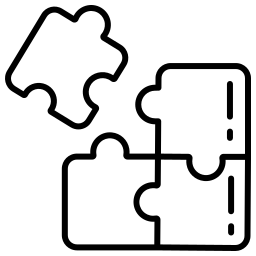
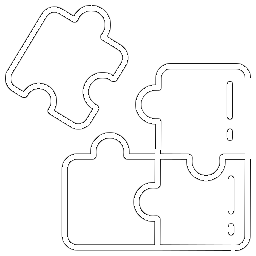
customize

diff --git a/assets/css/style.css b/assets/css/style.css
@@ -7,7 +7,8 @@ body {
     font-family: "Noto Sans JP", "Helvetica Neue", "Helvetica", "Hiragino Sans", "Hiragino Kaku Gothic ProN", "Arial", "Yu Gothic", "Meiryo", sans-serif;
     font-size: 15px;
     line-height: 1.5;
-    color: #333;
+    background-color: #111;
+    color: #fff;
     overflow-x: hidden;
 }
 
@@ -71,7 +72,9 @@ section
 }
 
 .section.section-secondary {
-    background-color: #efefef;
+    background-color: #333;
+    width: 80vw;
+    margin: 0 auto;
 }
 
 .section-headline {
@@ -81,17 +84,10 @@ section
     margin: 0 0 40px;
 }
 
-.section-button {
-    margin: 10px 0 40px;
-    text-align: center;
-}
-
 @media screen and (max-width:768px) {
     .section {
         padding: 20px 10px;
     }
-
-    .section.section-secondary {}
 
     .section-headline {
         font-size: 30px;
@@ -137,15 +133,17 @@ header
 .header-navitem>a {
     display: block;
     padding: 10px;
-    color: #333;
+    color: #fff;
     text-decoration: none;
     font-weight: bold;
-    border-bottom: 2px solid transparent;
+    margin-bottom: 2px;
+    border-bottom: 0px solid transparent;
     transition: border-color .25s;
 }
 
 .header-navitem>a:hover {
-    border-bottom: 2px solid #333;
+    margin-bottom: 0px;
+    border-bottom: 2px solid #fff;
 }
 
 @media screen and (max-width:768px) {
@@ -263,14 +261,14 @@ card
 
 .card-link {
     display: block;
-    color: #333;
+    color: #fff;
     text-decoration: none;
     position: relative;
     transition: background-color .25s;
 }
 
 .card-link:hover {
-    background-color: #eee;
+    background-color: #222;
 }
 
 .card-label {
@@ -326,25 +324,85 @@ avator
 /*
 button
 */
+.button-border {
+    position: relative;
+    display: flex;
+    align-items: center;
+    justify-content: center;
+    width: 200px;
+    height: 50px;
+    margin: 10px auto;
+    border-radius: 3px;
+    overflow: hidden;
+}
+
 .button {
+    position: relative;
+    z-index: 2;
+    width: 195px;
+    height: 45px;
     display: inline-block;
     color: #fff;
     font-weight: bold;
-    background-color: #333;
+    background-color: #222;
     text-align: center;
-    padding: 15px 60px;
+    padding: 15px 0;
     text-decoration: none;
-    border-radius: 5px;
-    box-shadow: 5px 5px 0 #bbb;
-    transition: box-shadow .25s;
+    border-radius: 3px;
 }
 
-.button:hover {
-    box-shadow: 0px 0px 0 #bbb;
+.button-border::before {
+    content: "";
+    display: block;
+    background: linear-gradient(90deg,
+            hsla(197, 100%, 64%, 1) 0%,
+            hsla(339, 100%, 55%, 1) 100%);
+    height: 500px;
+    width: 500px;
+    position: absolute;
+    animation: rotate 8s linear infinite;
+    z-index: 1;
+}
+.button-shadow{
+    position: relative;
+    width: min-content;
+    margin: 0 auto;
+}
+
+.button-shadow::after {
+    content: "";
+    display: block;
+    background: linear-gradient(90deg,
+            hsla(197, 100%, 64%, 1) 0%,
+            hsla(339, 100%, 55%, 1) 100%);
+    width: 200px;
+    height: 50px;
+    position: absolute;
+    top: -50%;
+    left: 50%;
+    transform: translate(-50%,40%);
+    z-index: 0;
+    filter: blur(15px);
+    opacity: 0;
+    transition: opacity 0.25s;
+}
+
+.button-shadow:hover::after {
+    opacity: 1;
+}
+
+@keyframes rotate {
+    from {
+        transform: rotate(0);
+    }
+
+    to {
+        transform: rotate(360deg);
+    }
 }
 
 .button.button-submission {
-    background: #92d3ca;
+    background: #444;
 }
 
 /*
@@ -402,9 +460,14 @@ form
     padding: 19px;
 }
 
-.form-button {
-    text-align: center;
-    margin: 20px;
+@keyframes rotate {
+    from {
+        transform: rotate(0);
+    }
+
+    to {
+        transform: rotate(360deg);
+    }
 }
 
 @media screen and (max-width:768px) {
@@ -435,14 +498,16 @@ works
     height: auto;
 }
 
-@keyframes infinite-carousel{
-    0%{
+@keyframes infinite-carousel {
+    0% {
         transform: translateX(0);
     }
-    50%{
+
+    50% {
         transform: translateX(-50%);
     }
-    100%{
+
+    100% {
         transform: translateX(-100%);
     }
 }

diff --git a/index.html b/index.html
@@ -5,7 +5,7 @@
     <meta charset="UTF-8">
     <meta http-equiv="X-UA-Compatible" content="IE=edge">
     <meta name="viewport" content="width=device-width, initial-scale=1.0">
-    <title>BugFix Web Page</title>
+    <title>BF Web Page</title>
     <meta name="description" content="sample text sample text sample text sample text sample text...">
 
     <link rel="preconnect" href="https://fonts.googleapis.com">
@@ -34,7 +34,7 @@
                 d="M45.588 79.501C12.8 61.179 6.692 4.763 67.126 2.834h112.83v50.469h-6.107c0-32.307-13.662-39.057-20.733-39.539-2.894.482-.322 0-4.983-.321-.964.321-25.073-.321-25.073.321v64.934l5.305.804c9.644 1.768 22.662-15.269 19.769-26.198h9.162v66.38h-9.162c0-13.18 0-29.735-11.894-29.735-4.661-.643-4.661-.643-13.18-.643h-.643v51.112c0 5.625-.321 6.75.643 18 2.25 13.502 6.43 16.234 25.073 15.912v11.252H58.609C-14.685 174.33 2.514 84.806 45.588 79.501zm38.093-1.767v-66.38h-9.162c-23.626.803-41.628 46.29-7.554 64.934 5.465 2.41 12.055 1.767 16.716 1.446zm0 10.447c-44.521-6.268-63.166 54.808-22.984 79.722 8.197 1.768 16.234 2.57 22.984-3.215V88.181z"
                 fill="#f5f5f5" />
             </g>
-            <title>BugFix Inc.</title>
+            <title>BF Inc.</title>
           </svg>
         </a>
       </h1>
@@ -57,7 +57,7 @@
     </header>
 
     <div class="hero">
-      <strong>Hello World!</strong>
+      <strong>Development!</strong>
       <div class="hero-particles" id="particles-js"></div>
       <video autoplay loop muted preload>
         <source src="./assets/videos/hero.mp4" type="video/mp4">
@@ -189,10 +189,12 @@
           </article>
         </li>
       </ul>
-      <div class="section-button">
-        <a href="#" class="button">
-          Blog Page
-        </a>
+      <div class="button-shadow">
+        <div class="button-border">
+          <a href="#" class="button">
+            Blog Page
+          </a>
+        </div>
       </div>
     </section>
 
@@ -261,8 +263,10 @@
             </td>
           </tr>
         </table>
-        <div class="form-button">
-          <button class="button button-submission" type="submit">Submit</button>
+        <div class="button-shadow">
+          <div class="button-border">
+            <button class="button button-submission" type="submit">Submit</button>
+          </div>
         </div>
       </form>
     </section>
@@ -299,7 +303,7 @@
                   fill="#f5f5f5" />
               </g>
             </svg>
-            BugFix Inc.
+            BF Inc.
           </div>
           <address class="footer-mapaddress">
             〒100-0000 東京都千代田区丸の内１-１-１<br>
@@ -308,7 +312,7 @@
         </figcaption>
       </figure>
       <hr class="footer-line">
-      <small class="footer-copy">&copy;BugFix Inc.</small>
+      <small class="footer-copy">&copy;BF Inc.</small>
     </footer>
 
     <script src="./assets/js/particles.min.js"></script>
